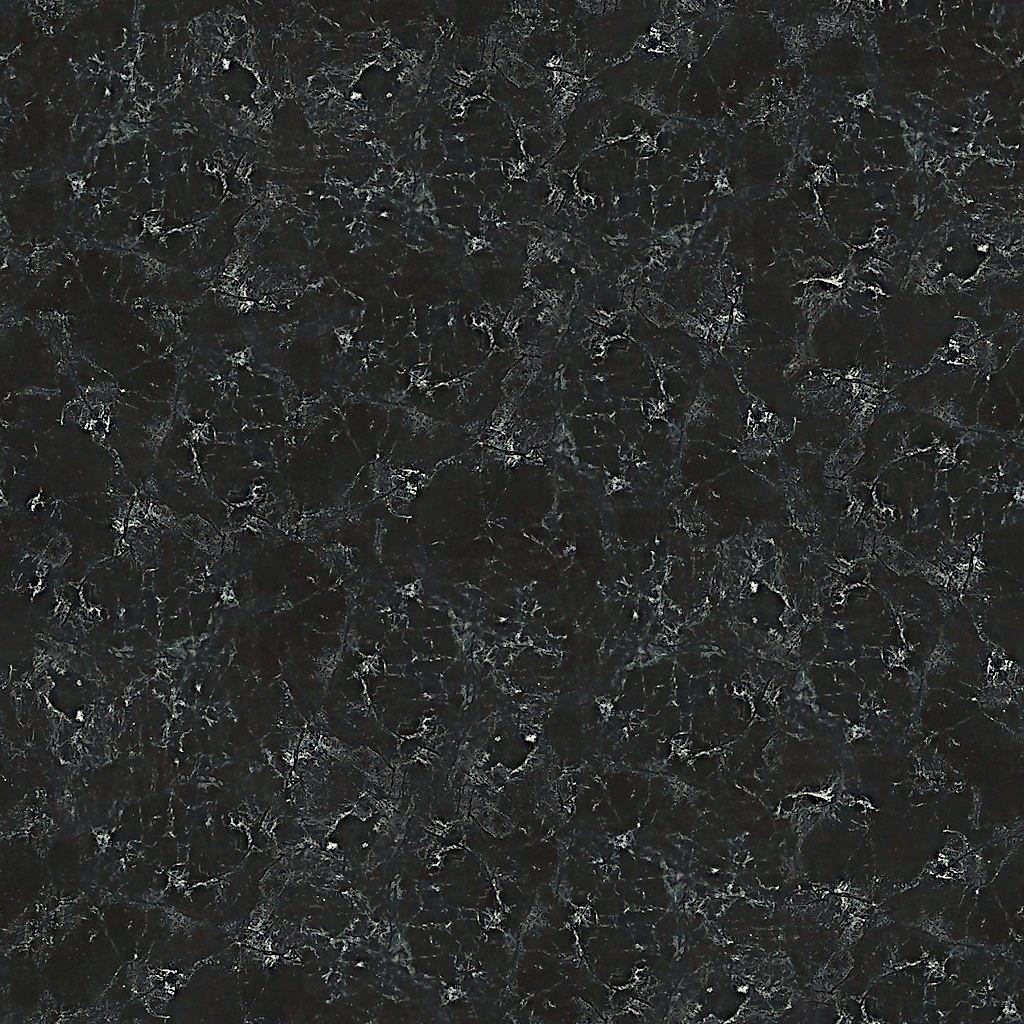
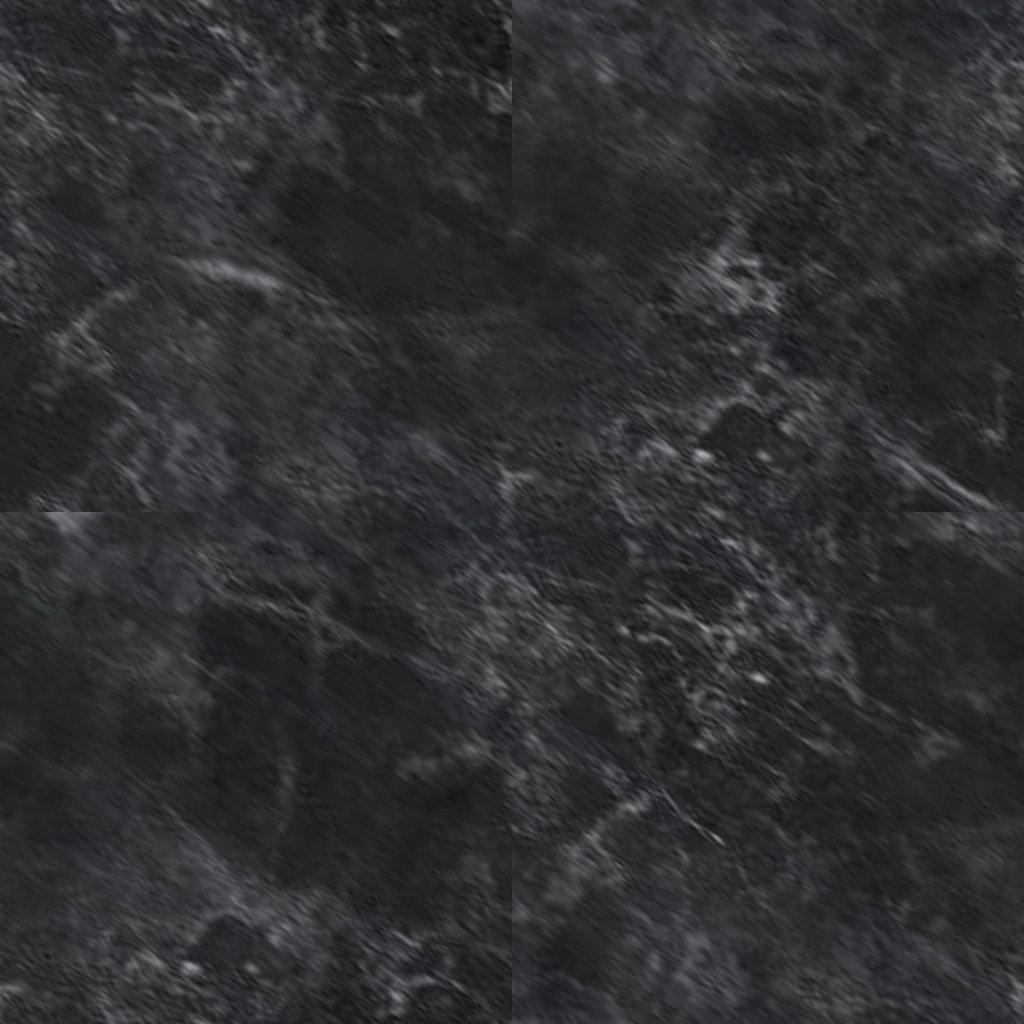
Cubiertas con las fotos reales de la tienda y Grafito Hilado
Florentino, Granito, Granito Negro, Blanco Classic, Kombi y Módena usan
ahora texturas sacadas de las fotos de la tienda. El gris de cocina pasa a
llamarse Grafito Hilado, con su tono grafito y textura tipo lino.

Claude-Session: https://claude.ai/code/session_01Ts8BC9S7VkEsbosEvqguUL

diff --git a/tests/materiales.test.ts b/tests/materiales.test.ts
@@ -9,7 +9,7 @@ const grupos = { melaminas: catalogo.melaminas, cubiertas: catalogo.cubiertas, t
 
 const MELAMINAS_COCINA = ['gris-blanqueado', 'pino-casina', 'pino-nebraska', 'verde-salvia', 'rojo'];
 const CUBIERTAS_OFICIALES = ['clasic', 'florentino', 'granito', 'granito-beige', 'calacatta', 'granito-negro', 'modena'];
-/** Colores de los muebles XL de la tienda (sin muestra fotográfica todavía: color liso). */
+/** Colores de los muebles XL de la tienda (sin foto de muestra; Grafito Hilado lleva una textura procedural fina). */
 const MELAMINAS_COCINA_LISAS = ['verde-glaciar', 'gris-sombra'];
 const TIPOS = ['liso', 'madera', 'marmol', 'granito', 'concreto'];
 
@@ -125,5 +125,22 @@ describe('materiales.json', () => {
     for (const id of ['blanco', 'roble-natural', 'nogal', 'grafito', 'negro']) expect(porId(catalogo.melaminas, id).origen).toBe('generico');
     for (const id of ['granito-gris', 'carrara', 'blanco-liso', 'negro-mate']) expect(porId(catalogo.cubiertas, id).origen).toBe('generico');
     expect(porId(catalogo.tiradores, 'acero').metal).toBe(1);
+  });
+});
+
+describe('cubiertas con foto de la tienda', () => {
+  it('usan los nombres de la tienda y Módena tiene su propia textura', () => {
+    expect(porId(catalogo.cubiertas, 'clasic').nombre).toBe('Blanco Classic');
+    expect(porId(catalogo.cubiertas, 'granito-beige').nombre).toBe('Kombi');
+    expect(porId(catalogo.cubiertas, 'modena').textura).toBe('/texturas/modena.jpg');
+  });
+});
+
+describe('Grafito Hilado', () => {
+  it('es la melamina gris-sombra, grafito oscuro con textura fina', () => {
+    const m = porId(catalogo.melaminas, 'gris-sombra');
+    expect(m.nombre).toBe('Grafito Hilado');
+    expect(m.textura).toBe('/texturas/grafito-hilado.jpg');
+    expect(parseInt(m.color.slice(1, 3), 16)).toBeLessThan(0x60);
   });
 });

diff --git a/shared/catalogo.ts b/shared/catalogo.ts
@@ -171,10 +171,10 @@ export function coloresDeVariante(variante: string | null): { cubierta?: string;
   if (!variante) return {};
   const v = variante.toLowerCase();
   const out: { cubierta?: string; frente?: string } = {};
-  if (v.includes('clasic')) out.cubierta = 'clasic';
+  if (v.includes('clasic') || v.includes('classic')) out.cubierta = 'clasic';
   else if (v.includes('calacatta')) out.cubierta = 'calacatta';
   else if (v.includes('florentino')) out.cubierta = 'florentino';
-  else if (v.includes('granito beige')) out.cubierta = 'granito-beige';
+  else if (v.includes('granito beige') || v.includes('kombi')) out.cubierta = 'granito-beige';
   else if (v.includes('granito negro')) out.cubierta = 'granito-negro';
   else if (v.includes('granito')) out.cubierta = 'granito';
   if (v.includes('gris blanqueado')) out.frente = 'gris-blanqueado';
@@ -182,7 +182,7 @@ export function coloresDeVariante(variante: string | null): { cubierta?: string;
   else if (v.includes('pino nebraska')) out.frente = 'pino-nebraska';
   else if (v.includes('verde salvia')) out.frente = 'verde-salvia';
   else if (/verde.(glaciar|jade)/.test(v)) out.frente = 'verde-glaciar';
-  else if (/gris.sombra/.test(v)) out.frente = 'gris-sombra';
+  else if (/gris.sombra|grafito/.test(v)) out.frente = 'gris-sombra'; // «Grafito Hilado» en la tienda
   else if (/\brojo\b/.test(v)) out.frente = 'rojo';
   if (!out.cubierta && /m[oó]dena/.test(v)) out.cubierta = 'modena';
   return out;

diff --git a/tests/catalogo.test.ts b/tests/catalogo.test.ts
@@ -57,6 +57,11 @@ describe('clasificación del catálogo de la tienda', () => {
   it('lee la combinación de colores de cocina desde el nombre', () => {
     expect(coloresDeVariante('Florentino Gris Blanqueado')).toEqual({ cubierta: 'florentino', frente: 'gris-blanqueado' });
     expect(coloresDeVariante('Granito Pino Nebraska')).toEqual({ cubierta: 'granito', frente: 'pino-nebraska' });
+    expect(coloresDeVariante('Blanco Classic Pino Casina')).toEqual({ cubierta: 'clasic', frente: 'pino-casina' });
+    expect(coloresDeVariante('Clasic Grafito Hilado').frente).toBe('gris-sombra');
+    expect(coloresDeVariante('Florentino Grafito').frente).toBe('gris-sombra');
+    expect(coloresDeVariante('Clasic Gris Sombra').frente).toBe('gris-sombra');
+    expect(coloresDeVariante('Kombi Gris Blanqueado')).toEqual({ cubierta: 'granito-beige', frente: 'gris-blanqueado' });
   });
 
   it('el diseño inicial de cada producto es consistente', () => {
